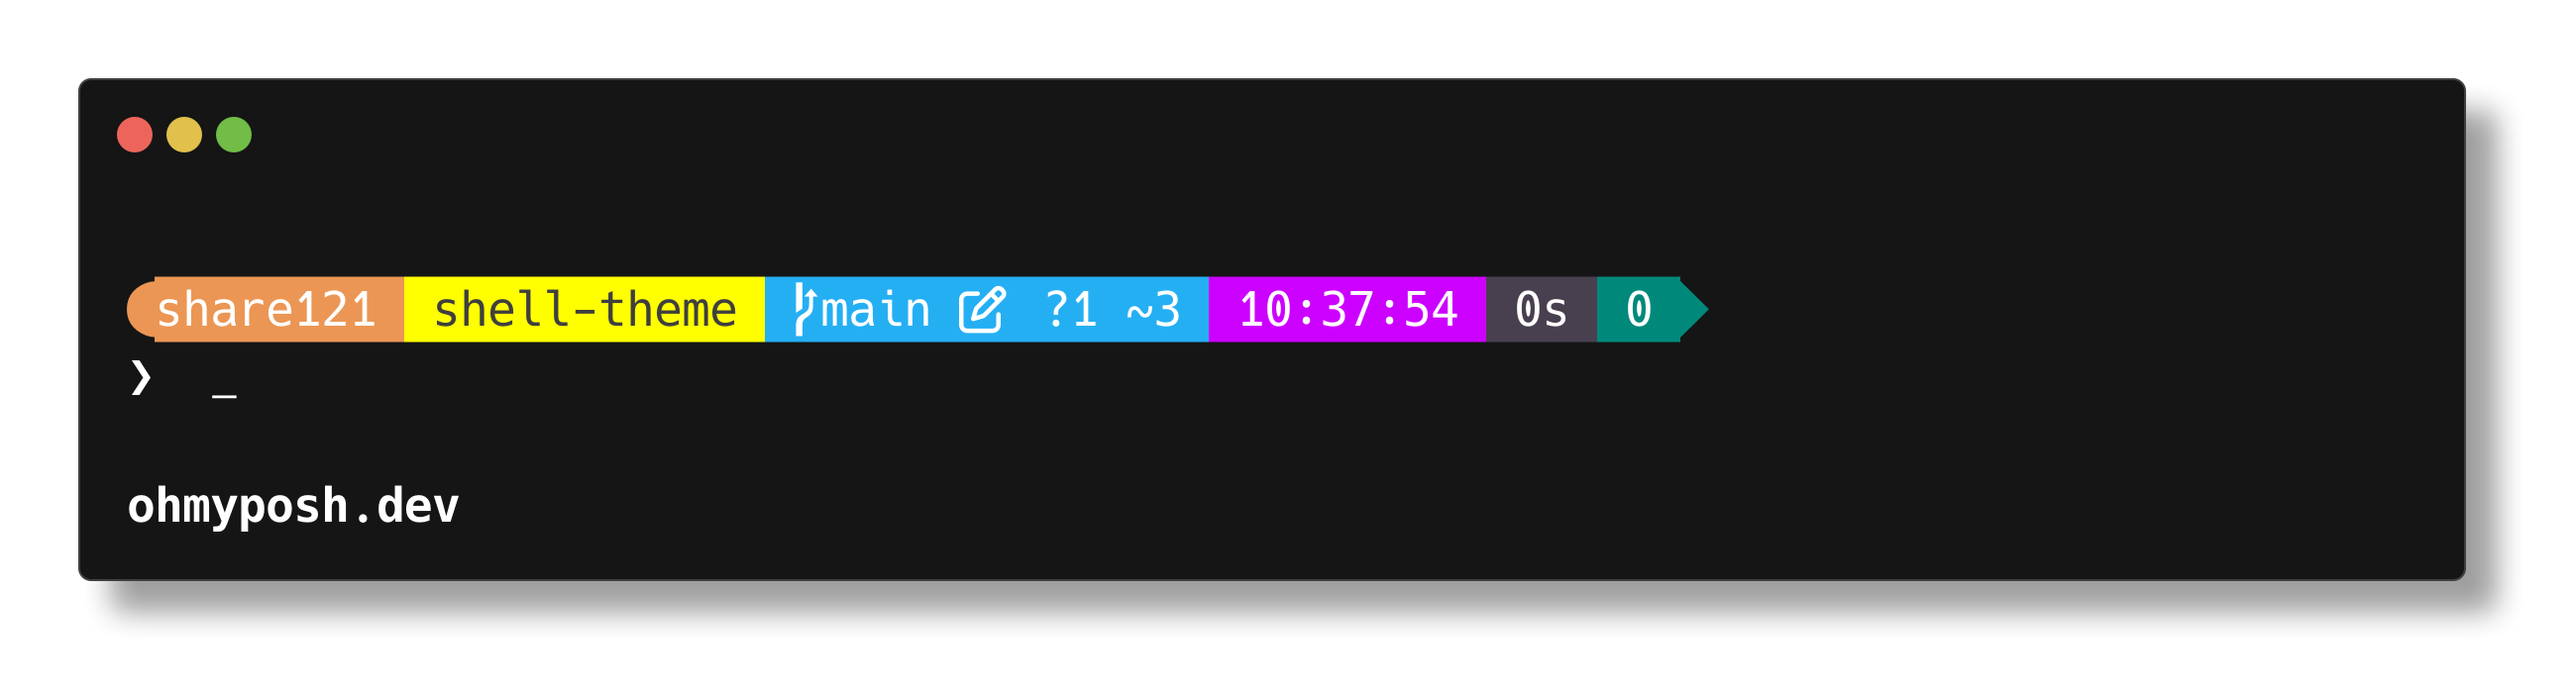
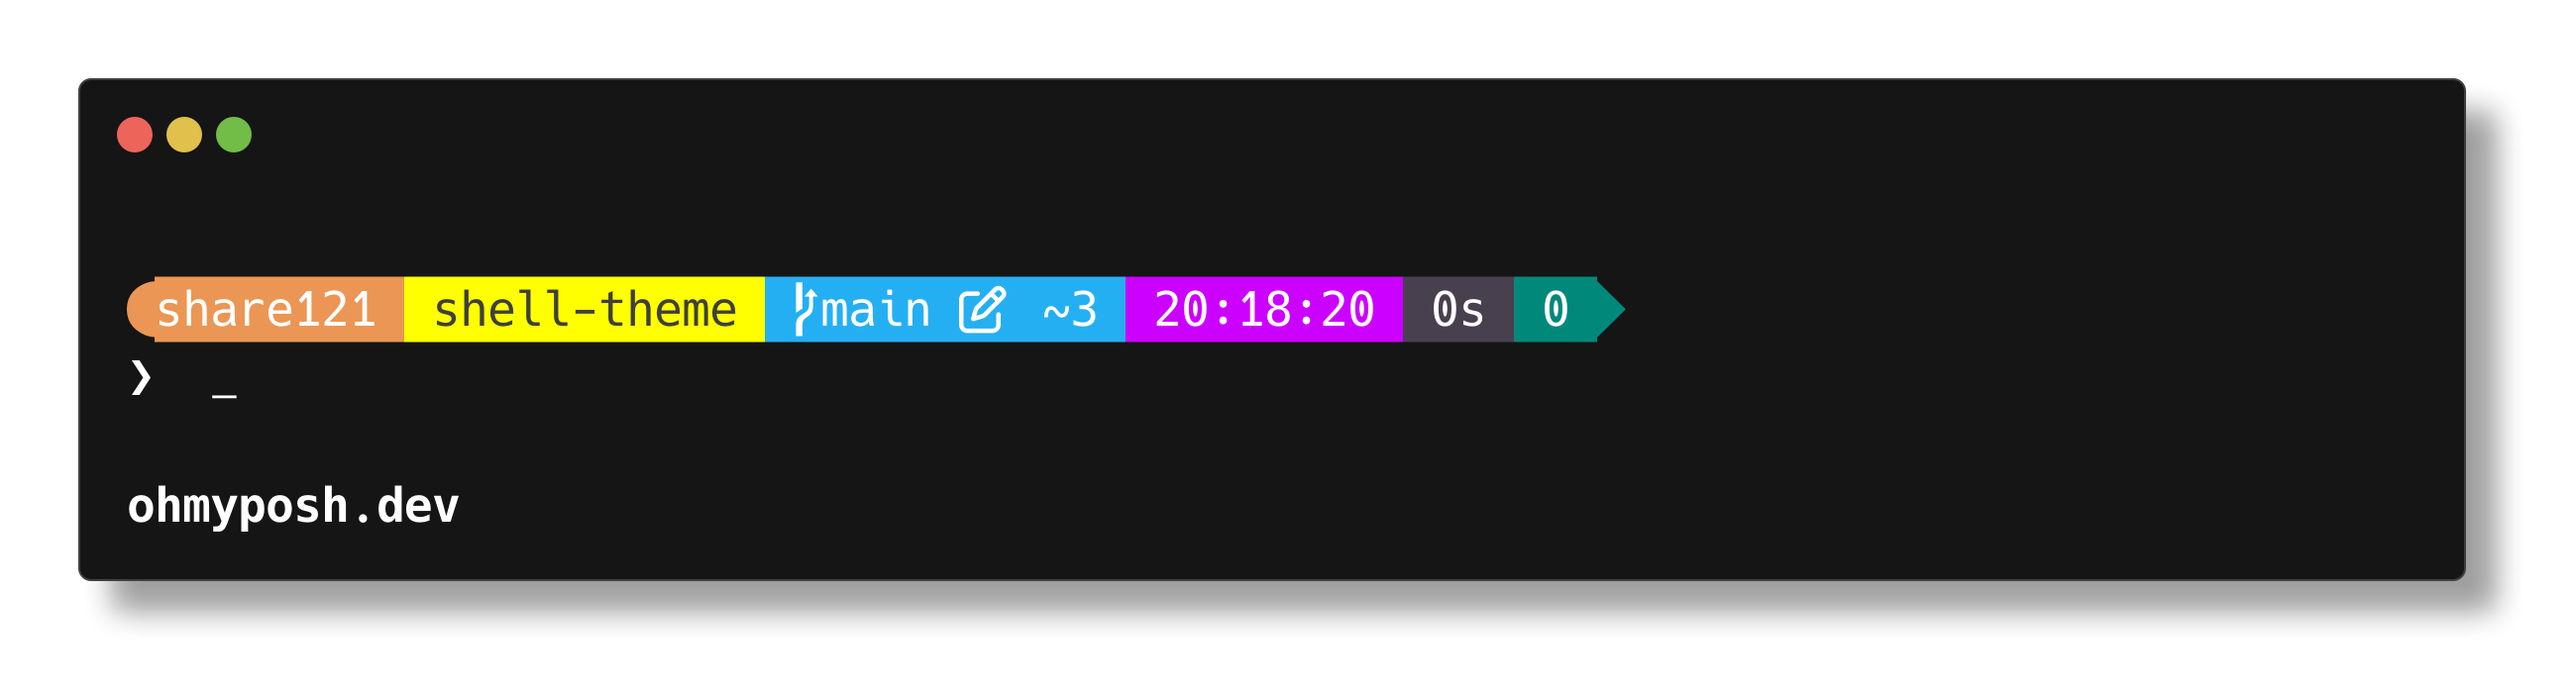
feat: 添加时间展示

Changed region(s): [[0.405, 0.3911, 0.6854, 0.5115]]

diff --git a/README.md b/README.md
@@ -45,10 +45,10 @@ oh-my-posh init pwsh --config https://gh.llkk.cc/https://github.com/share121/she
 
 #### 方式二：从本地文件加载主题
 
-每次从 Github 下载文件太慢了，可以下载 [share121.json](https://raw.githubusercontent.com/share121/shell-theme/refs/heads/main/share121.json) 然后存到随便一个文件夹里
+每次从 Github 下载文件太慢了，可以下载[本项目](https://github.com/share121/shell-theme/archive/refs/heads/main.zip)，然后随便解压到一个地方
 
 > [!TIP]
-> 右键[此链接](https://raw.githubusercontent.com/share121/shell-theme/refs/heads/main/share121.json)，选择“将链接另存为”即可下载
+> 右键[此链接](https://github.com/share121/shell-theme/archive/refs/heads/main.zip)，选择“将链接另存为”即可下载
 
 ```shell
 oh-my-posh init pwsh --config <路径>/share121.json | Invoke-Expression
@@ -70,8 +70,7 @@ oh-my-posh init pwsh --config <路径>/share121.json | Invoke-Expression
 的主题
 
 1. 添加了 `Ctrl` + 左键单击 文件夹名称自动打开文件夹的功能
-2. 去除了 `branch (...)` 这个多余的提示文本
-3. 添加了 Node.js 中包管理器名称展示
-4. 添加了 Python Venv 的名称展示
+2. 添加了 Node.js 中包管理器名称展示
+3. 添加了 Python Venv 的名称展示
+4. 去除了 `branch (...)` 这个多余的提示文本
 5. 去除了 Spotify 音乐展示
-6. 添加了当前时间展示
